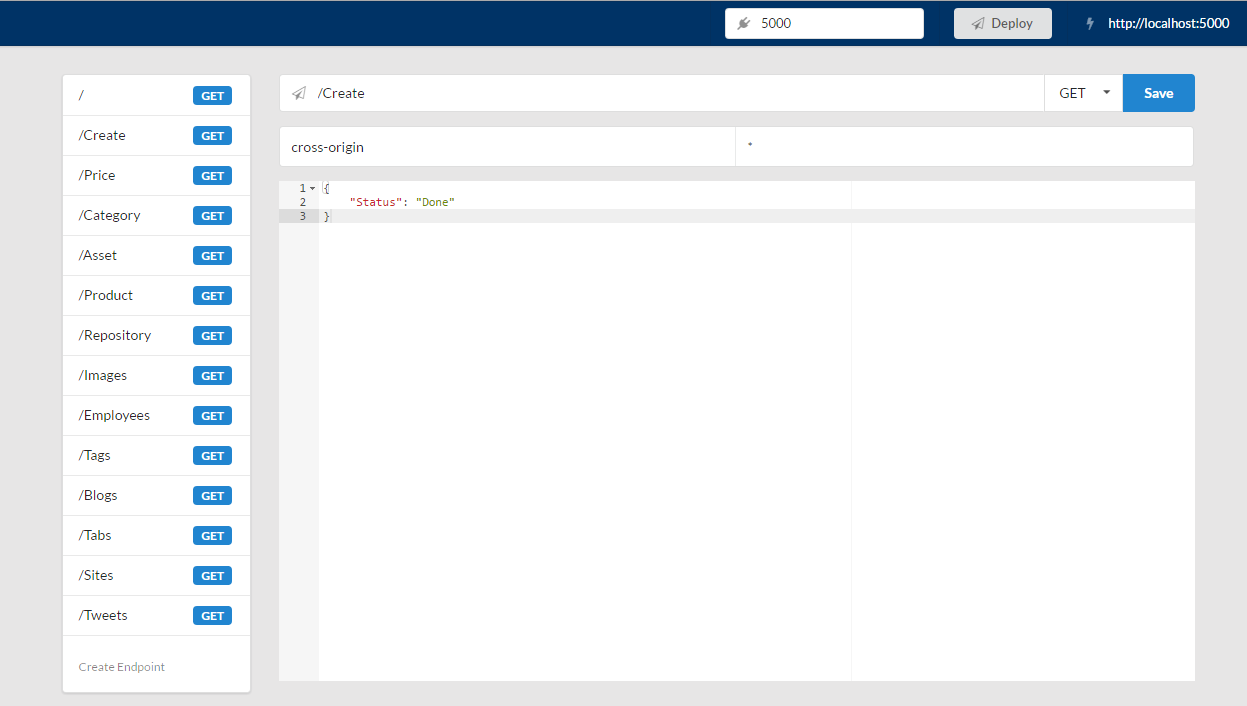
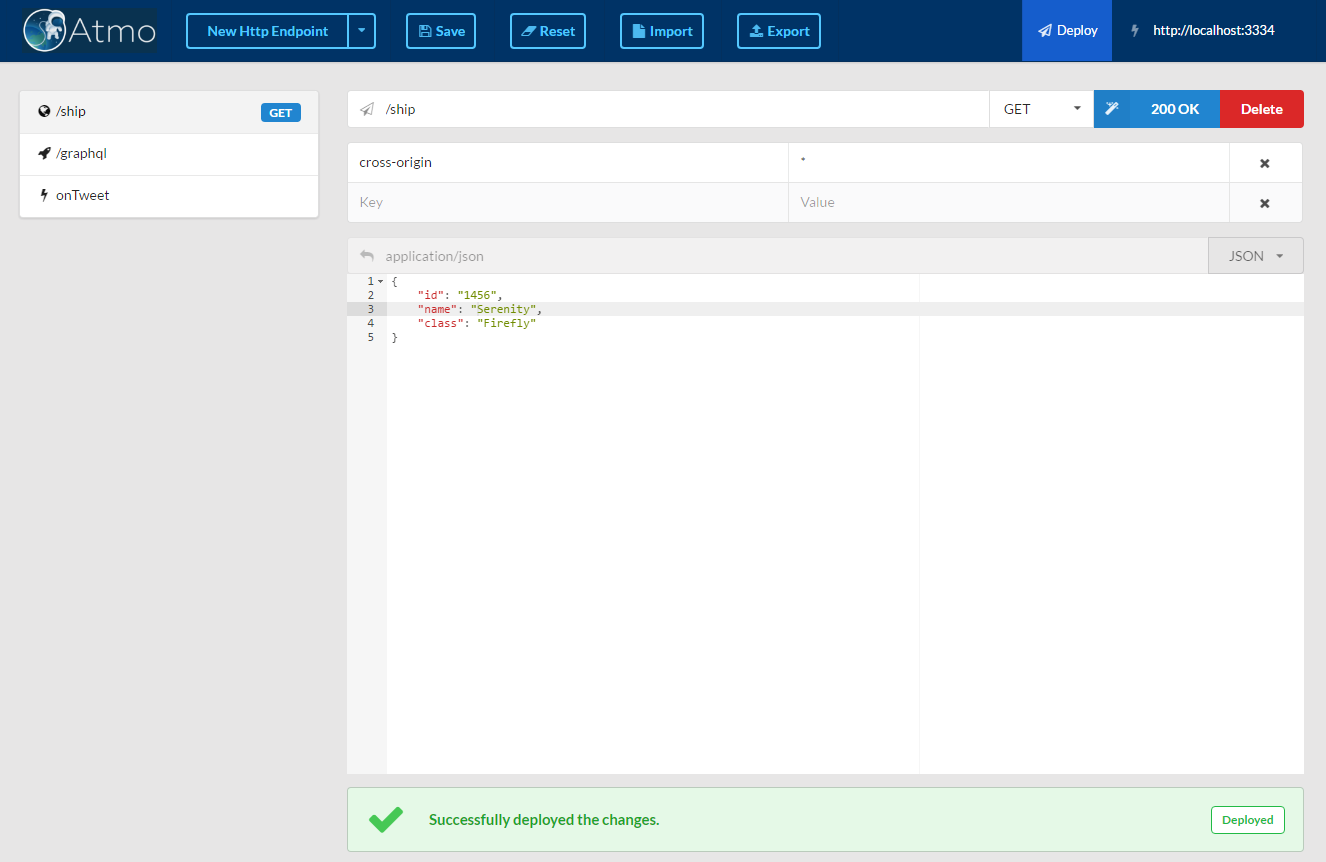
Readme update

Changed region(s): [[0.0, 0.0, 1.0, 0.9972]]

diff --git a/README.md b/README.md
@@ -1,5 +1,5 @@
 <h1 align="center">
-  <img src="https://raw.githubusercontent.com/Raathigesh/Hermes/master/docs/AtmoLogo.png" alt="Atmo" height="300">
+  <img src="https://raw.githubusercontent.com/Raathigesh/Atmo/master/docs/AtmoLogo.png" alt="Atmo" height="300">
    <br>
   <h4 align="center">Mock Http, Socket, Graphql Endpoints with ease</h4>
 </h1>
@@ -44,6 +44,10 @@ $ atmo
 - `--port` will launch the API server in a specific port (`atmo --port 3000`)
 - `--static` will expose the current working directory as static content folder (`atmo --static`)
 
+## Sleek UI huh?
+<h1 align="center">
+  <img src="https://raw.githubusercontent.com/Raathigesh/Atmo/master/docs/UI.PNG" alt="Atmo" >   
+</h1>
 
 ## The Future
 - [Ability to generate a Node JS project](https://github.com/Raathigesh/Atmo/issues/10)
